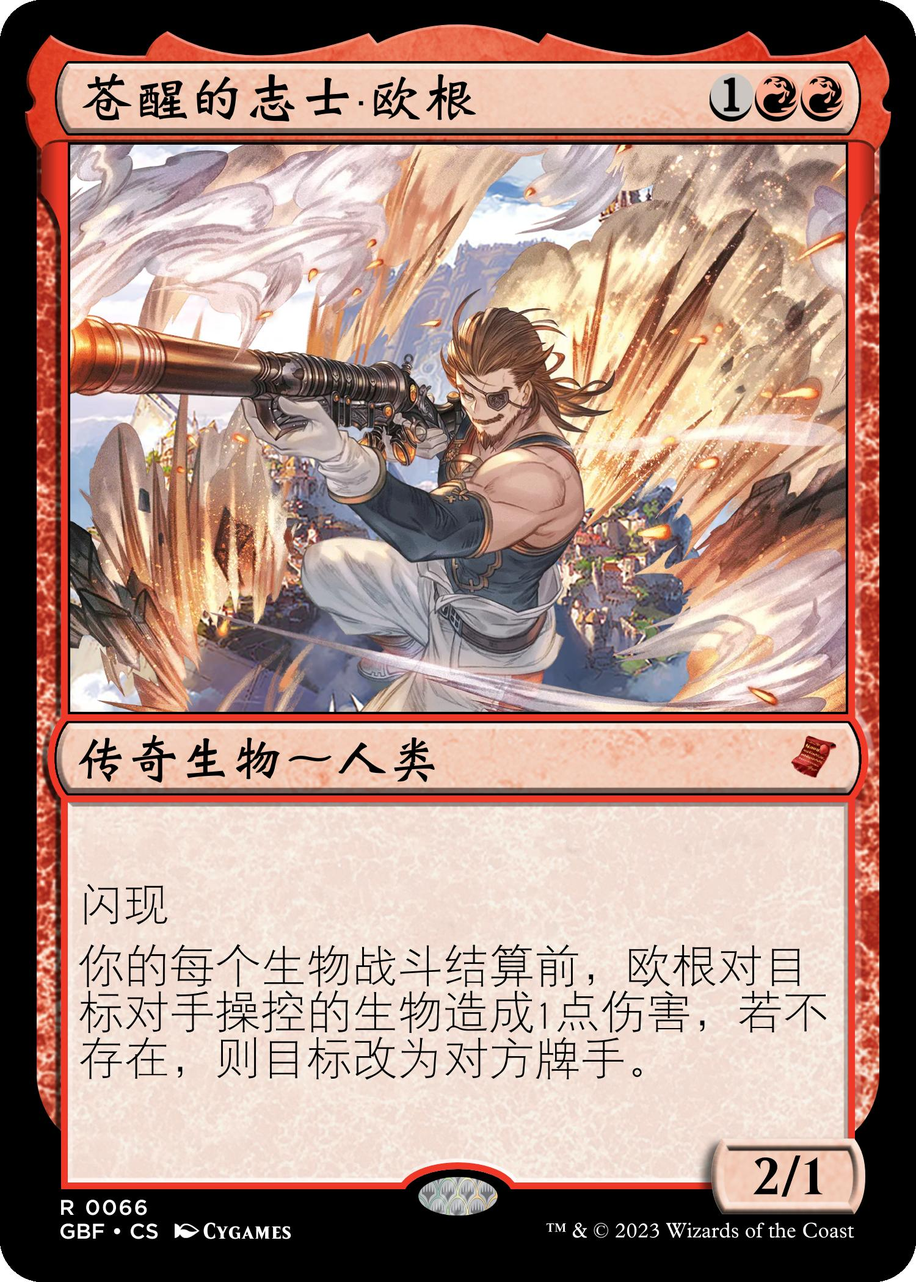
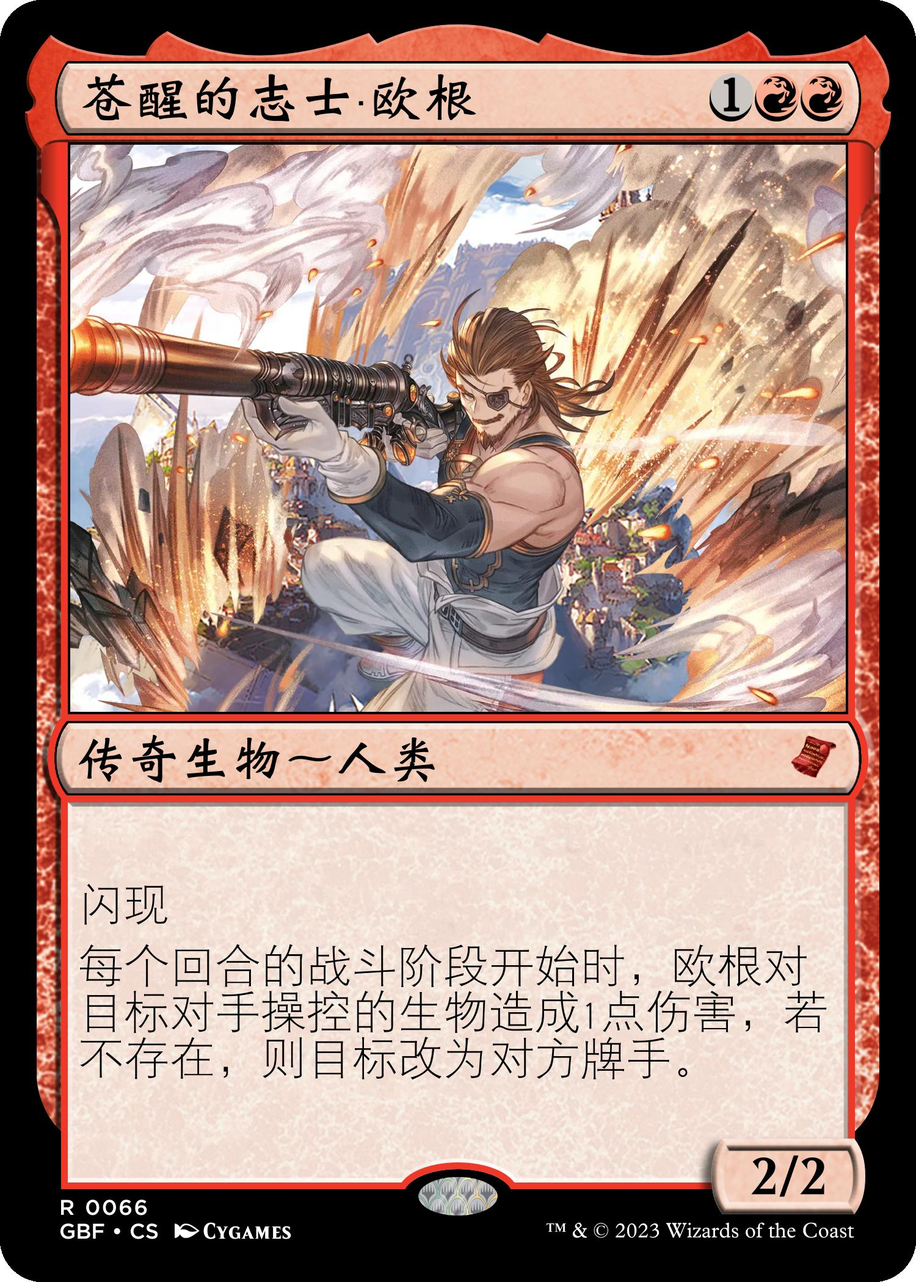
feat: v0.0.1.6 — fix Big Bertha cost reduction & Snowdrop trigger scope; rebalance Eugen (PT 2/2, begin-combat each turn) + 2 regression tests

Changed region(s): [[0.092, 0.7429, 0.92, 0.8357], [0.828, 0.8976, 0.92, 0.9286]]

diff --git a/tests/java/GbfEugenTest.java b/tests/java/GbfEugenTest.java
@@ -1,0 +1,121 @@
+import forge.game.Game;
+import forge.game.ability.AbilityFactory;
+import forge.game.ability.AbilityKey;
+import forge.game.card.Card;
+import forge.game.phase.PhaseType;
+import forge.game.player.Player;
+import forge.game.spellability.SpellAbility;
+import forge.game.trigger.TriggerType;
+import forge.game.zone.ZoneType;
+
+/**
+ * Headless regression test for Loyalist of Awakened Blue,Eugen (GBF) after the
+ * 0.0.1.6 rebalance: PT 2/1 -> 2/2 and the trigger changed from
+ * "before combat damage is dealt, for each attacking creature you control" to
+ * "at the beginning of the combat phase of each turn".
+ *
+ * Covers:
+ *  1. TrigBeginCombat chain: 1 damage to target creature an opponent controls.
+ *  2. Fallback: with no opponent creatures, 1 damage to the opponent player.
+ *  3. End-to-end phase trigger: fires at Begin Combat on BOTH your turn and the
+ *     opponent's turn (Phase$ BeginCombat | ValidPlayer$ Player), and the
+ *     no-creature fallback deals 1 to the opponent each time.
+ */
+public class GbfEugenTest extends GbfTestBase {
+
+    public static void main(String[] args) {
+        init();
+
+        boolean ok = true;
+        ok &= testCreatureDamage();
+        ok &= testFallbackPlayerDamage();
+        ok &= testFiresOnBothPlayersCombat();
+        System.out.println(ok ? "ALL PASS" : "SOME FAILED");
+        System.exit(ok ? 0 : 1);
+    }
+
+    /** Drive TrigBeginCombat with an explicit target: the bear takes exactly 1 damage and survives. */
+    private static boolean testCreatureDamage() {
+        Game game = newGame();
+        Player p = game.getPlayers().get(1);
+        Player q = game.getPlayers().get(0);
+
+        Card eugen = makeCard("Loyalist of Awakened Blue,Eugen", p, game);
+        addToBattlefield(eugen);
+        Card bear = makeCard("Grizzly Bears", q, game);
+        addToBattlefield(bear);
+
+        SpellAbility trig = AbilityFactory.getAbility(eugen, "TrigBeginCombat");
+        trig.setActivatingPlayer(p);
+        trig.getTargets().add(bear);
+        game.getStack().add(trig);
+        playUntilStackClear(game);
+
+        boolean ok = bear.getDamage() == 1 && !game.getZoneOf(bear).is(ZoneType.Graveyard);
+        System.out.println("[CreatureDamage] bear damage = " + bear.getDamage() + " (expect 1, alive) -> "
+                + (ok ? "PASS" : "FAIL"));
+        return ok;
+    }
+
+    /** No opponent creatures: the fallback deals 1 damage to the opponent player instead. */
+    private static boolean testFallbackPlayerDamage() {
+        Game game = newGame();
+        Player p = game.getPlayers().get(1);
+        Player q = game.getPlayers().get(0);
+
+        Card eugen = makeCard("Loyalist of Awakened Blue,Eugen", p, game);
+        addToBattlefield(eugen);
+
+        SpellAbility trig = AbilityFactory.getAbility(eugen, "TrigBeginCombat");
+        trig.setActivatingPlayer(p);
+        game.getStack().add(trig);
+        playUntilStackClear(game);
+
+        boolean ok = q.getLife() == 19;
+        System.out.println("[FallbackPlayer] opponent life = " + q.getLife() + " (expect 19) -> "
+                + (ok ? "PASS" : "FAIL"));
+        return ok;
+    }
+
+    /**
+     * End-to-end: the Phase trigger really fires at Begin Combat of BOTH
+     * players' turns (Phase$ BeginCombat | ValidPlayer$ Player). With no
+     * opponent creatures the fallback pings the opponent player each combat.
+     */
+    private static boolean testFiresOnBothPlayersCombat() {
+        Game game = newGame();
+        Player p = game.getPlayers().get(1);
+        Player q = game.getPlayers().get(0);
+
+        Card eugen = makeCard("Loyalist of Awakened Blue,Eugen", p, game);
+        game.getAction().changeZone(null, p.getZone(ZoneType.Battlefield), eugen, null, null);
+        game.getTriggerHandler().registerActiveTrigger(eugen, false);
+
+        // your combat phase start: fallback pings the opponent (no opponent creatures)
+        fireAtBeginCombat(game, p);
+        boolean yourTurn = q.getLife() == 19;
+
+        // opponent's combat phase start: the same trigger fires again (each turn)
+        fireAtBeginCombat(game, q);
+        boolean oppTurn = q.getLife() == 18;
+
+        boolean ok = yourTurn && oppTurn;
+        System.out.println("[FiresEachTurn] after your begin combat q life = " + (yourTurn ? 19 : q.getLife())
+                + ", after opponent's begin combat q life = " + (oppTurn ? 18 : q.getLife())
+                + " -> " + (ok ? "PASS" : "FAIL"));
+        return ok;
+    }
+
+    /**
+     * Mimics PhaseHandler.onPhaseBegin: rebuild active triggers for the new
+     * phase, fire the Phase trigger (queued as simultaneous stack entries),
+     * then unfreeze the stack and resolve it like the main loop does.
+     */
+    private static void fireAtBeginCombat(Game game, Player turnPlayer) {
+        game.getPhaseHandler().devModeSet(PhaseType.COMBAT_BEGIN, turnPlayer);
+        game.getTriggerHandler().resetActiveTriggers();
+        game.getTriggerHandler().runTrigger(TriggerType.Phase, AbilityKey.mapFromPlayer(turnPlayer), false);
+        game.getStack().unfreezeStack();
+        playUntilStackClear(game);
+    }
+}

diff --git a/tests/java/GbfBigBerthaTest.java b/tests/java/GbfBigBerthaTest.java
@@ -1,0 +1,85 @@
+import forge.game.Game;
+import forge.game.card.Card;
+import forge.game.cost.CostAdjustment;
+import forge.game.mana.ManaCostBeingPaid;
+import forge.game.player.Player;
+import forge.game.spellability.SpellAbility;
+
+/**
+ * Headless regression test for Big Bertha (GBF) conditional cost reduction:
+ * "Big Bertha costs {2} less to cast if an opponent controls creatures with
+ * total toughness 6 or greater."
+ *
+ * Original bug (fixed in 0.0.1.6): SVar:X was "Count$Min 2 0/CompareY GE6.1.0"
+ * — "Min 2 0" is not an xCount function and "CompareY" is not a doXMath
+ * operator, so X silently evaluated to 0 and the reduction NEVER applied.
+ * Fixed with the official Orysa, Tide Choreographer pattern:
+ *   S:Mode$ ReduceCost | ... | Amount$ 2 | CheckSVar$ X | SVarCompare$ GE6
+ *   SVar:X:Count$Valid Creature.OppCtrl$CardToughness
+ * These tests run the real CostAdjustment.adjust() path (the same code path
+ * the game uses when paying for the spell) and assert the adjusted CMC.
+ */
+public class GbfBigBerthaTest extends GbfTestBase {
+
+    public static void main(String[] args) {
+        init();
+
+        boolean ok = true;
+        ok &= testReducedWhenToughnessAtLeast6();
+        ok &= testNotReducedWhenBelow6();
+        ok &= testNotReducedWhenNoCreatures();
+        System.out.println(ok ? "ALL PASS" : "SOME FAILED");
+        System.exit(ok ? 0 : 1);
+    }
+
+    /** Adjusted CMC of Big Bertha (base {3}{R} = CMC 4) while q controls 'bears' Grizzly Bears (2/2 each). */
+    private static int adjustedCmc(Game game, Player p, Player q, int bears) {
+        Card bertha = makeCard("Big Bertha", p, game);
+        addToHand(bertha);
+        for (int i = 0; i < bears; i++) {
+            Card bear = makeCard("Grizzly Bears", q, game);
+            addToBattlefield(bear);
+        }
+        SpellAbility sa = bertha.getFirstSpellAbility();
+        sa.setActivatingPlayer(p);
+        ManaCostBeingPaid cost = new ManaCostBeingPaid(bertha.getManaCost());
+        CostAdjustment.adjust(cost, sa, p, null, true, false);
+        return cost.getConvertedManaCost();
+    }
+
+    /** 3 bears = total toughness 6 -> reduced by 2: CMC 4 - 2 = 2. */
+    private static boolean testReducedWhenToughnessAtLeast6() {
+        Game game = newGame();
+        Player p = game.getPlayers().get(1);
+        Player q = game.getPlayers().get(0);
+        int cmc = adjustedCmc(game, p, q, 3);
+        boolean ok = cmc == 2;
+        System.out.println("[ReducedAt6] 3 bears (total toughness 6) -> adjusted CMC = " + cmc
+                + " (expect 2) -> " + (ok ? "PASS" : "FAIL"));
+        return ok;
+    }
+
+    /** 2 bears = total toughness 4 < 6 -> no reduction: CMC stays 4. */
+    private static boolean testNotReducedWhenBelow6() {
+        Game game = newGame();
+        Player p = game.getPlayers().get(1);
+        Player q = game.getPlayers().get(0);
+        int cmc = adjustedCmc(game, p, q, 2);
+        boolean ok = cmc == 4;
+        System.out.println("[NoReductionBelow6] 2 bears (total toughness 4) -> adjusted CMC = " + cmc
+                + " (expect 4) -> " + (ok ? "PASS" : "FAIL"));
+        return ok;
+    }
+
+    /** No opponent creatures -> no reduction: CMC stays 4. */
+    private static boolean testNotReducedWhenNoCreatures() {
+        Game game = newGame();
+        Player p = game.getPlayers().get(1);
+        Player q = game.getPlayers().get(0);
+        int cmc = adjustedCmc(game, p, q, 0);
+        boolean ok = cmc == 4;
+        System.out.println("[NoReductionNoCreatures] no creatures -> adjusted CMC = " + cmc
+                + " (expect 4) -> " + (ok ? "PASS" : "FAIL"));
+        return ok;
+    }
+}

diff --git a/README.md b/README.md
@@ -16,9 +16,9 @@
 ### 目前的内容
 
 1. 第一轮设计：添加了Mythic Rare牌7张、Rare牌20张、Uncommon牌36张、Common牌60张共计123张卡牌。
-2. 十二神将补充包：添加了Mythic Rare1张、Rare牌13张共计14张卡牌。
+2. 十二神将补充包：添加了Mythic Rare1张、Rare牌12张共计14张卡牌。
 
-当前系列注册卡牌 **136 张**（Mythic 8 / Rare 33 / Uncommon 36 / Common 59），另有 5 个 GBF 衍生物脚本。
+当前系列注册卡牌 **136 张**（Mythic 8 / Rare 32 / Uncommon 36 / Common 60），另有 5 个 GBF 衍生物脚本。
 
 ### 计划更新
 
